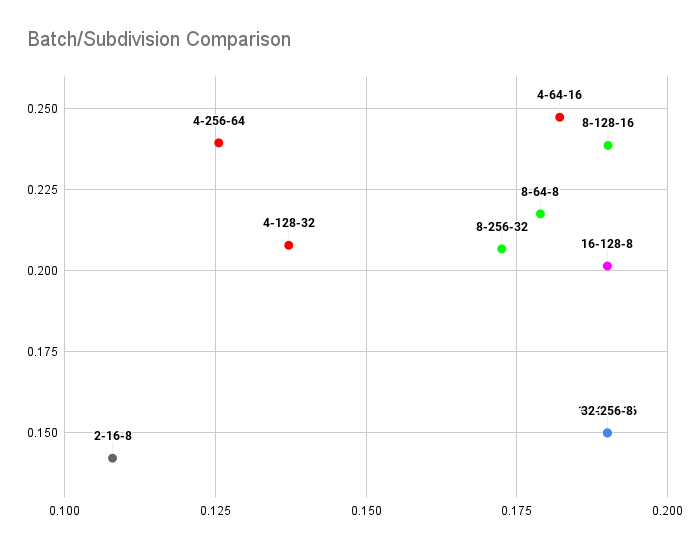
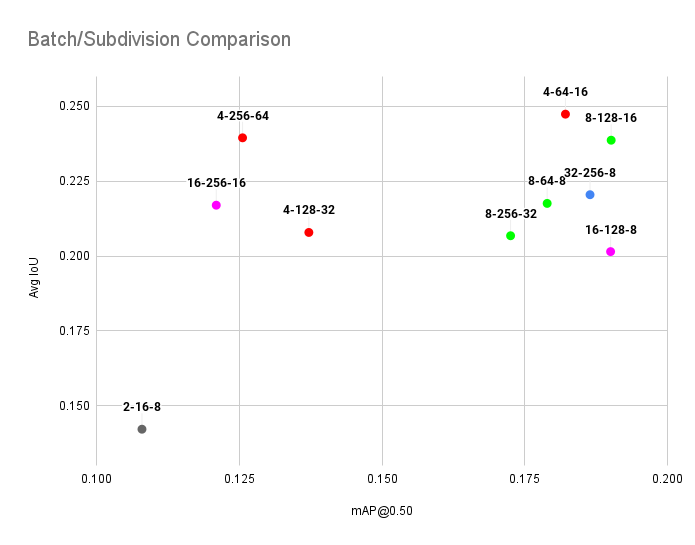
completed testing and added resource utilization details

diff --git a/README.md b/README.md
@@ -87,12 +87,38 @@ Used Model is yolov4-tiny, and resolution is 416x416
 |   16  | 128 | 8  | Yes | 0.29 | 0.09 | 0.14 | 0.1900 | 0.2015 | [terminal](trainOutput/yolov4-tiny-pretrained-128-8.png) |
 |   4   | 256 | 64 | Yes | 0.35 | 0.12 | 0.18 | 0.1256 | 0.2395 | [terminal](trainOutput/yolov4-tiny-pretrained-256-64.png) |
 |   8   | 256 | 32 | Yes | 0.30 | 0.11 | 0.16 | 0.1725 | 0.2068 | [terminal](trainOutput/yolov4-tiny-pretrained-256-32.png) |
-|   16  | 256 | 16 | Yes | 0.35 | 0.12 | 0.18 | 0.1256 | 0.2395 | [terminal](trainOutput/yolov4-tiny-pretrained-256-16.png) |
+|   16  | 256 | 16 | Yes | 0.31 | 0.09 | 0.14 | 0.1210 | 0.2170 | [terminal](trainOutput/yolov4-tiny-pretrained-256-16.png) |
+|   32  | 256 | 8  | Yes | 0.32 | 0.10 | 0.16 | 0.1864 | 0.2205 | [terminal](trainOutput/yolov4-tiny-pretrained-256-8.png) |
 
 
 ![Image](trainOutput/batch_subdivision-comparison.png)
 
 <br>
+
+## Comparison of resource utilization of the largest models
+
+### Idle utilization
+
+![Image](trainOutput/idle_resource_utilization.png)
+
+### yolov4-p5 utilization
+
+- RAM Memory usage - ~1.8 GB
+- GPU Memory usage - ~3.5 GB
+- CPU count (used) - 1
+
+![Image](trainOutput/p5_resource_utilization.png)
+
+### yolov4-p6 utilization
+
+- RAM Memory usage - ~2.2 GB
+- GPU Memory usage - ~6.1 GB
+- CPU count (used) - 1
+
+![Image](trainOutput/p6_resource_utilization.png)
+
+<br>
+
 
 # Model Train Commands
 
